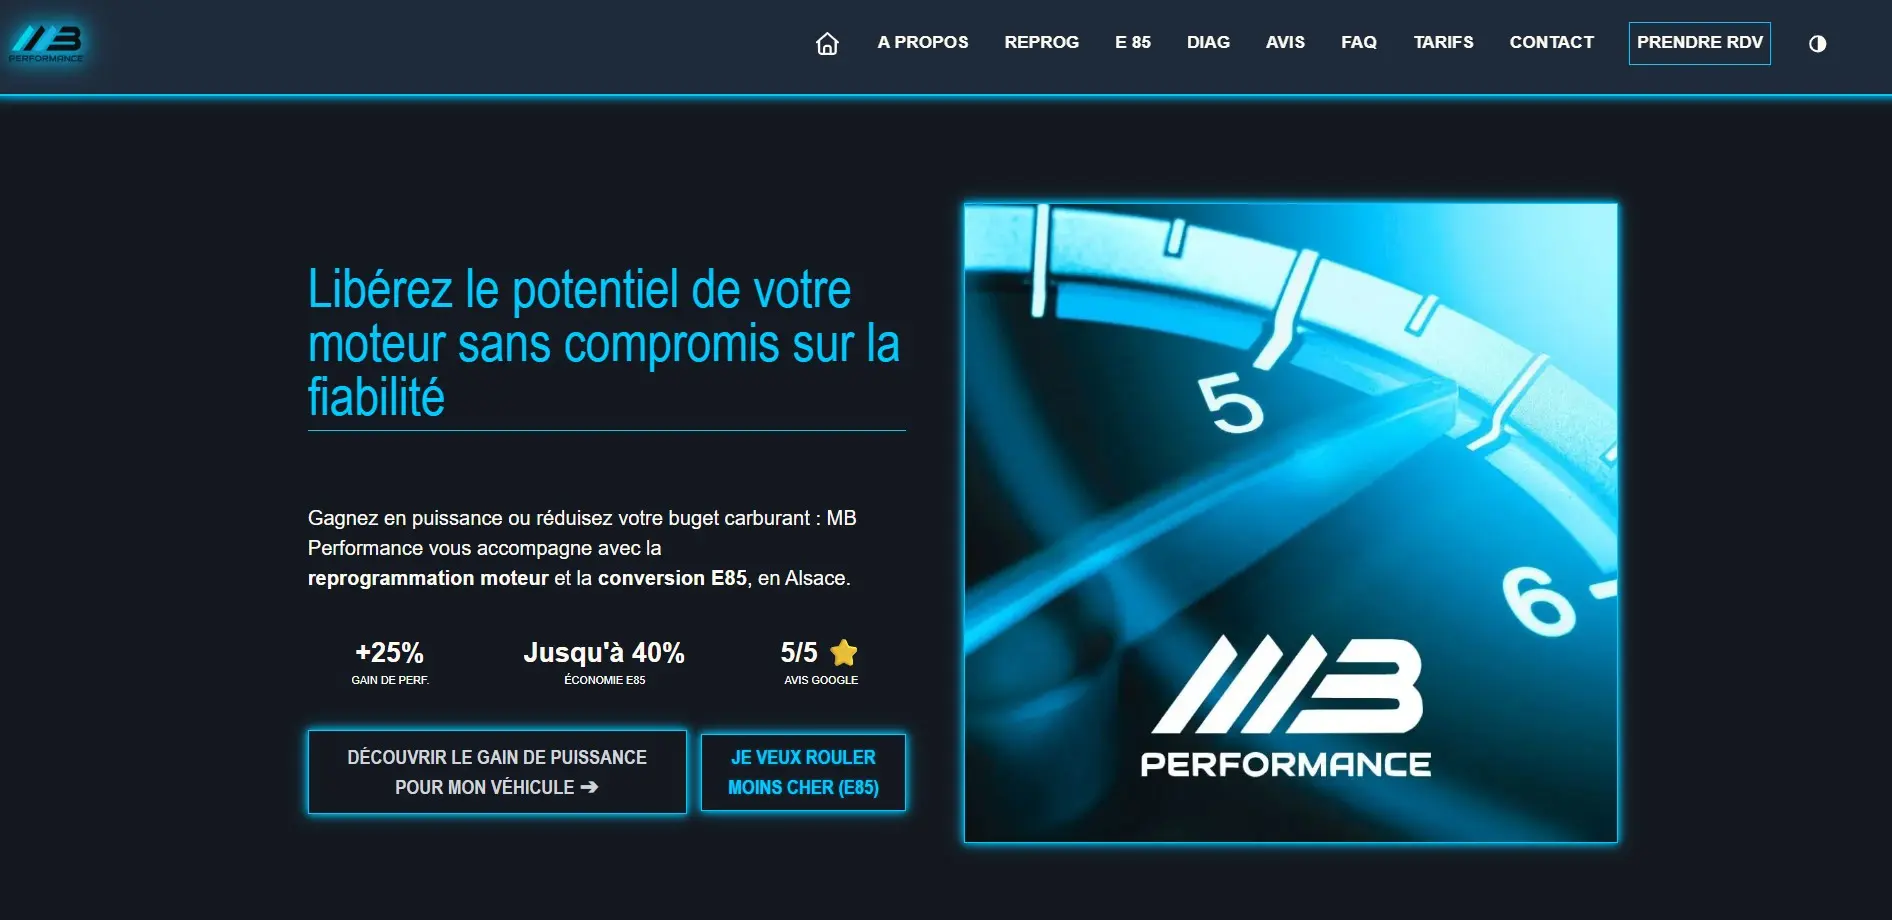
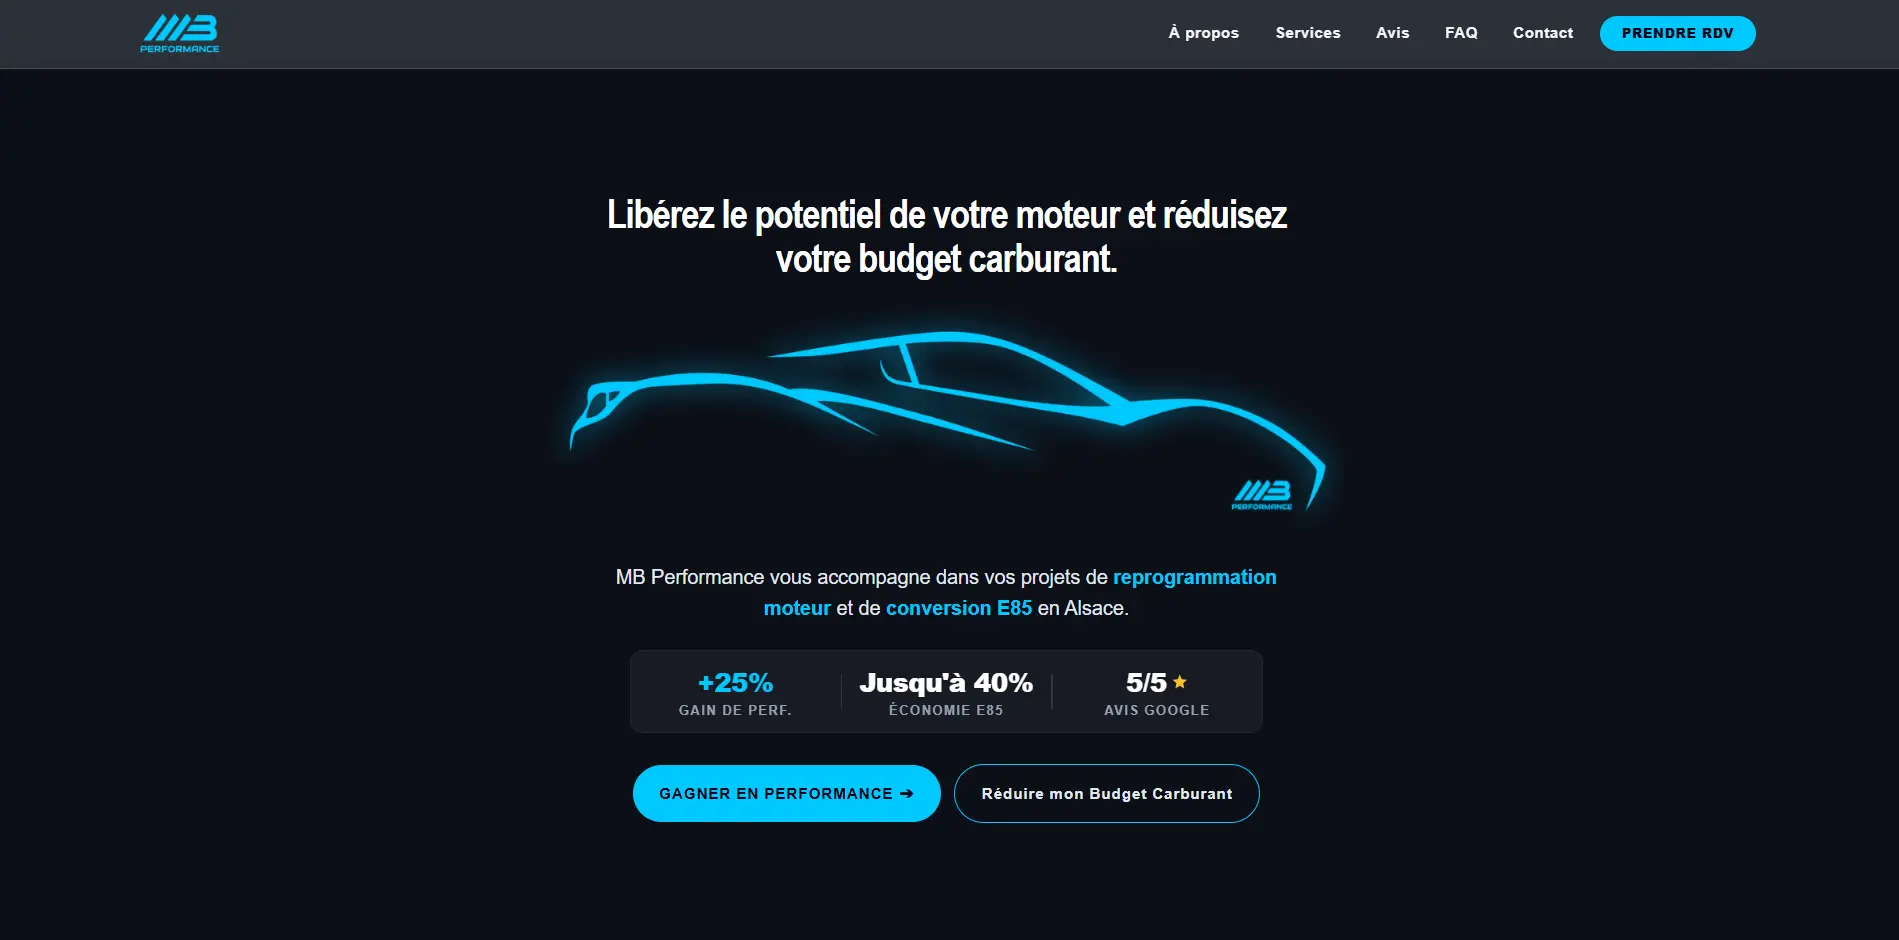
modif etude de cas mb perf

diff --git a/mentions-legales.html b/mentions-legales.html
@@ -62,7 +62,7 @@
             <a href="index.html#faq" class="nav-link text-xs font-semibold tracking-widest text-gray-400 hover:text-white transition-all duration-300 uppercase flex items-center gap-2">
                 <span class="bullet w-1.5 h-1.5 bg-[#8449d9] rounded-full animate-pulse opacity-0 transition-opacity duration-300"></span> FAQ
             </a>
-            <a href="index.html#contact" class="relative group overflow-hidden bg-white text-black px-7 py-3 rounded-full font-bold text-xs tracking-wider uppercase transition-all duration-300 hover:bg-[#8449d9] hover:text-white hover:shadow-[0_0_30px_rgba(132,73,217,0.4)]">
+            <a href="diagnostic-offert.html" class="relative group overflow-hidden bg-white text-black px-7 py-3 rounded-full font-bold text-xs tracking-wider uppercase transition-all duration-300 hover:bg-[#8449d9] hover:text-white hover:shadow-[0_0_30px_rgba(132,73,217,0.4)]">
                 Obtenir mon diagnostic
             </a>
         </nav>
@@ -82,7 +82,7 @@
         <a href="index.html#avis" class="mobile-nav-link text-lg font-bold tracking-widest text-gray-400 hover:text-white transition-colors uppercase">Avis</a>
         <a href="index.html#about" class="mobile-nav-link text-lg font-bold tracking-widest text-gray-400 hover:text-white transition-colors uppercase">A propos</a>
         <a href="index.html#faq" class="mobile-nav-link text-lg font-bold tracking-widest text-gray-400 hover:text-white transition-colors uppercase">FAQ</a>
-        <a href="index.html#contact" class="mobile-nav-link mt-4 inline-flex bg-gradient-to-r from-[#8449d9] to-cyan-400 text-white px-8 py-4 rounded-full font-bold text-sm tracking-wider uppercase">
+        <a href="diagnostic-offert.html" class="mobile-nav-link mt-4 inline-flex bg-gradient-to-r from-[#8449d9] to-cyan-400 text-white px-8 py-4 rounded-full font-bold text-sm tracking-wider uppercase">
             Obtenir mon diagnostic
         </a>
     </nav>
@@ -140,8 +140,15 @@
                 <h3 class="text-base font-bold text-gray-200">3. Hébergement du Site</h3>
                 <ul class="space-y-1 pl-6 list-none relative text-sm">
                     <li class="relative before:content-['•'] before:absolute before:-left-4 before:text-[#a370f7]"><strong class="text-gray-200 font-medium">Raison sociale :</strong> Netlify, Inc.</li>
-                    <li class="relative before:content-['•'] before:absolute before:-left-4 before:text-[#a370f7]"><strong class="text-gray-200 font-medium">Adresse :</strong> 512 2nd Street, Suite 200, San Francisco, CA 94107, États-Unis</li>
-                    <li class="relative before:content-['•'] before:absolute before:-left-4 before:text-[#a370f7]"><strong class="text-gray-200 font-medium">Site internet :</strong> https://www.netlify.com</li>
+                    <li class="relative before:content-['•'] before:absolute before:-left-4 before:text-[#a370f7]"><strong class="text-gray-200 font-medium">Adresse :</strong> 101 2nd Street, CA 94107, USA</li>
+                    <li class="relative before:content-['•'] before:absolute before:-left-4 before:text-[#a370f7] mt-2">
+                    <strong class="text-gray-200 font-medium">Téléphone :</strong> 
+                    <a href="tel:[phone redacted]" class="text-gray-200 hover:text-white">[phone redacted]</a>
+                    </li>
+                    <li class="relative before:content-['•'] before:absolute before:-left-4 before:text-[#a370f7]">
+                    <strong class="text-gray-200 font-medium">Contact :</strong> 
+                    <a href="mailto:[email redacted]" class="text-[#a370f7] hover:text-white">[email redacted]</a>
+                    </li>
                 </ul>
             </div>
             <div class="space-y-2 pt-2">

diff --git a/cgv.html b/cgv.html
@@ -62,7 +62,7 @@
             <a href="index.html#faq" class="nav-link text-xs font-semibold tracking-widest text-gray-400 hover:text-white transition-all duration-300 uppercase flex items-center gap-2">
                 <span class="bullet w-1.5 h-1.5 bg-[#8449d9] rounded-full animate-pulse opacity-0 transition-opacity duration-300"></span> FAQ
             </a>
-            <a href="index.html#contact" class="relative group overflow-hidden bg-white text-black px-7 py-3 rounded-full font-bold text-xs tracking-wider uppercase transition-all duration-300 hover:bg-[#8449d9] hover:text-white hover:shadow-[0_0_30px_rgba(132,73,217,0.4)]">
+            <a href="diagnostic-offert.html" class="relative group overflow-hidden bg-white text-black px-7 py-3 rounded-full font-bold text-xs tracking-wider uppercase transition-all duration-300 hover:bg-[#8449d9] hover:text-white hover:shadow-[0_0_30px_rgba(132,73,217,0.4)]">
                 Obtenir mon diagnostic
             </a>
         </nav>
@@ -82,7 +82,7 @@
         <a href="index.html#avis" class="mobile-nav-link text-lg font-bold tracking-widest text-gray-400 hover:text-white transition-colors uppercase">Avis</a>
         <a href="index.html#about" class="mobile-nav-link text-lg font-bold tracking-widest text-gray-400 hover:text-white transition-colors uppercase">A propos</a>
         <a href="index.html#faq" class="mobile-nav-link text-lg font-bold tracking-widest text-gray-400 hover:text-white transition-colors uppercase">FAQ</a>
-        <a href="index.html#contact" class="mobile-nav-link mt-4 inline-flex bg-gradient-to-r from-[#8449d9] to-cyan-400 text-white px-8 py-4 rounded-full font-bold text-sm tracking-wider uppercase">
+        <a href="diagnostic-offert.html" class="mobile-nav-link mt-4 inline-flex bg-gradient-to-r from-[#8449d9] to-cyan-400 text-white px-8 py-4 rounded-full font-bold text-sm tracking-wider uppercase">
             Obtenir mon diagnostic
         </a>
     </nav>